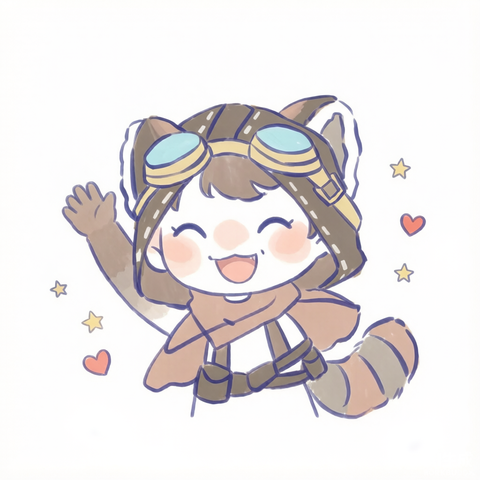
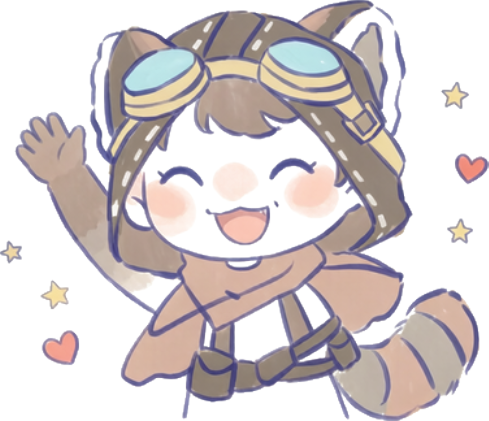
v9114: mascot transparent + 1.3x scale + bottom align

diff --git a/index.html b/index.html
@@ -10,7 +10,7 @@
     // 内联版本探针：独立于 app.js，确保即使脚本被缓存也能发现新版本
     (function () {
       try {
-        var BUILT = 9113;
+        var BUILT = 9114;
         fetch('./version.json?v=' + Date.now(), { cache: 'no-store' })
           .then(function (r) { return r.ok ? r.json() : null; })
           .then(function (d) {
@@ -27,9 +27,9 @@
   <meta http-equiv="Cache-Control" content="no-cache, no-store, must-revalidate">
   <meta http-equiv="Pragma" content="no-cache">
   <meta http-equiv="Expires" content="0">
-  <link rel="manifest" href="manifest.webmanifest?v=113">
-  <link rel="apple-touch-icon" href="icon-192.png?v=113">
-  <link rel="stylesheet" href="styles.css?v=113">
+  <link rel="manifest" href="manifest.webmanifest?v=114">
+  <link rel="apple-touch-icon" href="icon-192.png?v=114">
+  <link rel="stylesheet" href="styles.css?v=114">
   <title>xenos - 人生系统工作台</title>
 <meta name="theme-color" content="#F4B678">
   <link rel="preconnect" href="https://fonts.googleapis.com">
@@ -250,6 +250,6 @@
     </div>
   </div>
 
-  <script src="app.js?v=113"></script>
+  <script src="app.js?v=114"></script>
 </body>
 </html>

diff --git a/styles.css b/styles.css
@@ -5249,7 +5249,7 @@ select.pf-input {
   flex-shrink: 0;
 }
 .br-focus-text { margin: 0; font-size: 13px; color: var(--text-muted); font-weight: 500; }
-.br-mascot-img { width: 110px; height: auto; object-fit: contain; flex-shrink: 0; display: block; }
+.br-mascot-img { width: 143px; height: auto; object-fit: contain; flex-shrink: 0; display: block; }
 
 /* ---- 板块标题 ---- */
 .br-section-header {
